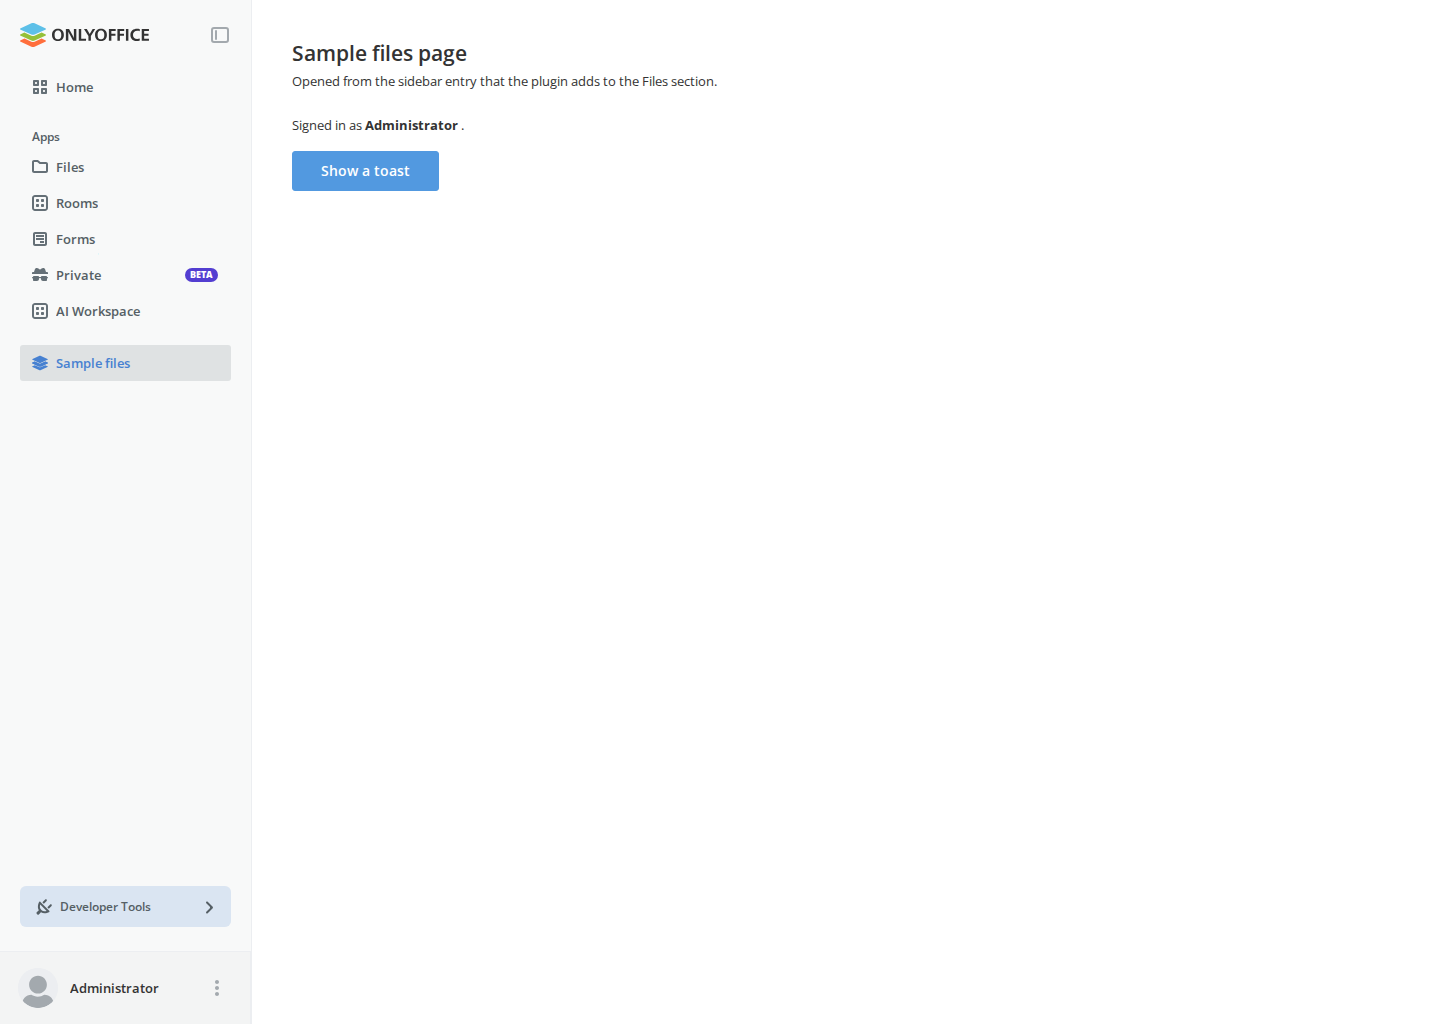
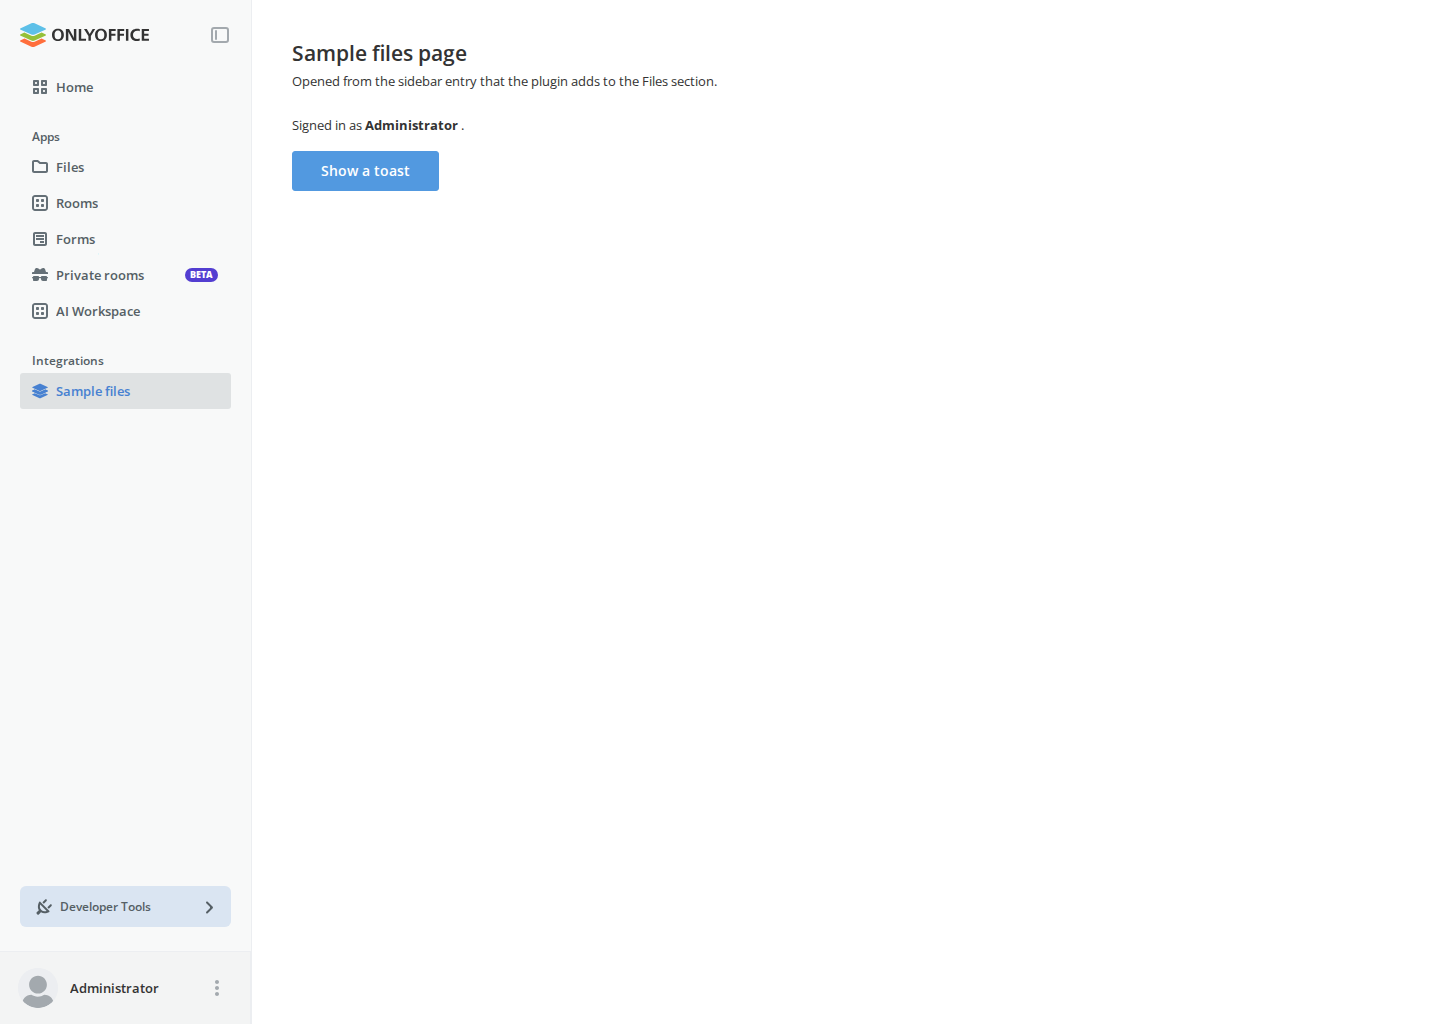
Client: Plugins: caption the sidebar plugin entries "Integrations"
The plugins' entries in the left sidebar now form a captioned block of their own under the products captioned "Apps", so external services connected to the portal read apart from the portal's own apps. The caption wraps rather than clips, and icon-only mode hides it.

- usePluginNavGroup: label the plugin nav group with the new Common:IntegrationsSectionTitle key
- Locales: add IntegrationsSectionTitle to every Common.json, with its translator comment in .meta
- E2E: cover several sidebar plugins - entry order, the caption sitting between "Apps" and the first plugin entry, and a screenshot
- Screenshots: refresh the article-navigation baselines for the files and settings pages, which now show the caption

Changed region(s): [[0.0, 0.3125, 0.1875, 0.4062], [0.0625, 0.25, 0.0938, 0.2812]]

diff --git a/packages/client/__tests__/plugins/workspace-app.spec.ts b/packages/client/__tests__/plugins/workspace-app.spec.ts
@@ -684,3 +684,72 @@ test.describe("Several Home page plugins", () => {
     );
   });
 });
+
+test.describe("Several sidebar plugins", () => {
+  test.beforeEach(({ mockRequest }) => {
+    mockRequest.use(
+      rootHandler(TEST_PORT),
+      filesSettingsHandler(TEST_PORT),
+      settingsHandler(TEST_PORT, TypeSettings.AuthenticatedWithPlugins),
+      selfActivationStatusHandler(TEST_PORT, null, false, true),
+      myHandler(TEST_PORT, true),
+      myDocumentsHandler(TEST_PORT, true),
+    );
+  });
+
+  const sidebarPlugin = (name: string, label: string): TFakePlugin => ({
+    name,
+    entry: { label },
+  });
+
+  test("The plugins' entries form a captioned block of their own under the apps", async ({
+    page,
+    baseUrl,
+    mockRequest,
+  }) => {
+    const plugins = [
+      sidebarPlugin("cws-01-chat", "Chat"),
+      sidebarPlugin("cws-02-mail", "Mail"),
+      sidebarPlugin("cws-03-projects", "Projects"),
+      sidebarPlugin("cws-04-crm", "CRM"),
+      sidebarPlugin("cws-05-wiki", "Wiki"),
+    ];
+    mockRequest.use(...fakePluginHandlers(plugins));
+
+    // A plugin page keeps the content area calm, and its entry shows the
+    // active state next to the inactive ones.
+    await openWithPlugins(page, `${baseUrl}/p/cws-02-mail-entry`, plugins);
+    await expect(page.locator("#cws-02-mail-entry-page")).toBeVisible();
+    // The page can render before the sidebar has finished loading its own
+    // items, and reading the keys does not wait.
+    await expect(fakeEntry(page, "cws-05-wiki")).toBeVisible();
+
+    expect(await entryKeys(page)).toEqual(
+      plugins.map(({ name }) => `${name}-entry`),
+    );
+
+    // The caption heads the plugins' group, so it sits between the products
+    // captioned "Apps" and the first plugin entry.
+    const sidebar = page.locator("#article-container");
+    const caption = sidebar.getByText("Integrations", { exact: true });
+    const appsCaption = sidebar.getByText("Apps", { exact: true });
+    await expect(caption).toBeVisible();
+
+    const captionBox = await caption.boundingBox();
+    const appsBox = await appsCaption.boundingBox();
+    const firstEntryBox = await fakeEntry(page, "cws-01-chat").boundingBox();
+
+    if (!captionBox || !appsBox || !firstEntryBox)
+      throw new Error("The sidebar is not laid out");
+
+    expect(captionBox.y).toBeGreaterThan(appsBox.y);
+    expect(captionBox.y).toBeLessThan(firstEntryBox.y);
+
+    await page.mouse.move(0, 0);
+    await expectScreenshot(page, [
+      "desktop",
+      "plugins-workspace-app",
+      "workspace-app_sidebar-several-plugins.png",
+    ]);
+  });
+});

diff --git a/packages/client/src/components/AppsSidebar/usePluginNavGroup.ts b/packages/client/src/components/AppsSidebar/usePluginNavGroup.ts
@@ -34,6 +34,7 @@
  */
 
 import { useMemo } from "react";
+import { useTranslation } from "react-i18next";
 import { useLocation, useNavigate } from "react-router";
 
 import type {
@@ -72,6 +73,7 @@ export const usePluginNavGroup = ({
   section,
   items,
 }: UsePluginNavGroupProps): UsePluginNavGroupResult => {
+  const { t } = useTranslation(["Common"]);
   const { pathname } = useLocation();
   const navigate = useNavigate();
 
@@ -104,8 +106,15 @@ export const usePluginNavGroup = ({
     );
 
     return {
-      pluginGroup: { id: PLUGIN_GROUP_ID, items: navItems },
+      // Captioned like the products above, so the plugins' entries - external
+      // services connected to the portal - read as a block of their own. The
+      // caption wraps rather than clips, and icon-only mode hides it.
+      pluginGroup: {
+        id: PLUGIN_GROUP_ID,
+        label: t("Common:IntegrationsSectionTitle"),
+        items: navItems,
+      },
       activePluginItemId: activeItem && getNavItemId(activeItem.key),
     };
-  }, [section, items, pathname, navigate]);
+  }, [section, items, pathname, navigate, t]);
 };
